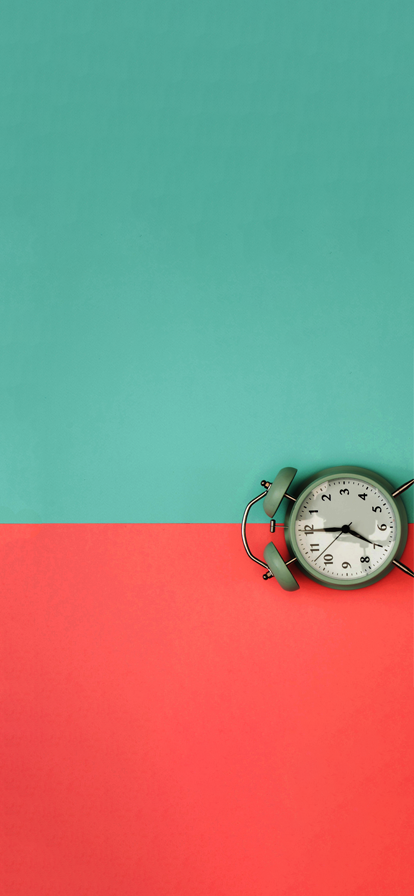
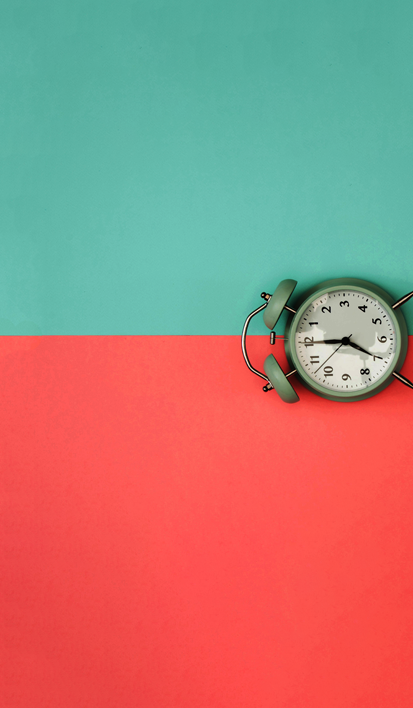
updated mobile

Changed region(s): [[0.0, 0.3729, 1.0, 0.6836]]

diff --git a/css/events.css b/css/events.css
@@ -459,7 +459,7 @@ i {
     position: absolute;
 }
   #homepage{
-    background-image: url("../img/Samgatha Mobile BG/Dance Mobile.png");
+    background-image: url("../img/Samgatha Mobile BG/Events Mobile.png");
     background-size: cover;
 }
 #photography{
@@ -491,7 +491,7 @@ i {
     background-size: cover;
 }
 #quiz{
-    background-image: url("../img/Samgatha Mobile BG/Dance Mobile.png");
+    background-image: url("../img/Samgatha Mobile BG/Quiz Phone1.png");
     background-size: cover;
 }
 #design{
@@ -564,26 +564,24 @@ i {
 
 .g1 img{
   position:absolute;
-  width:70%;
-  height:auto;
-  top:20%;
-  left:40%;
+  width:47%;
+  top:43vh;
+  left:30vh;
 }
 
 .g2 img{
   position:absolute;
-  width:70%;
+  width:47%;
   height:auto;
-  bottom:5%;
-  left:15%;
+  bottom:-13vh;
+  left:5vh;
 }
 
 .g3 img{
   position:absolute;
-  width:70%;
-  height:auto;
-  top:20%;
-  left:-10%;
+  width:47%;
+  top:16vh;
+  left:30vh;
 }
 .p1 img,.p2 img,.p3 img{
     position: absolute;
@@ -611,21 +609,21 @@ i {
         margin-left: -14rem;
 }
 .a1 img{
-    width: 55%;
+    width: 35%;
     height: auto;
-    margin-left:-1rem;
+    margin-left:-25vh;
     margin-top:-15rem;
 }
 .a2 img{
-    width: 55%;
+    width: 35%;
     height: auto;
-    margin-left: -7rem;
-    margin-top: -5rem;
+    margin-left: -12vh;
+    margin-top: 5vh;
 }
 .a3 img{
-    width: 55%;
+    width: 35%;
     height: auto;
-    margin-left:-12rem;
+    margin-left:1vh;
     margin-top:-15rem;
 }
 .m1 img{
@@ -642,27 +640,23 @@ i {
   height: 600px;
 }
 .q1 img{
-  width: 60%;
-  height: auto;
-  margin-top: 1rem;
+  width: 40%;
   position: absolute;
-  right: 5px;
-  top:20%;
-  
+  right: 5vh;
+  top:5vh;
 }
 .q2 img{
-  width: 60%;
+  width: 45%;
   position: absolute;
-  bottom: 4%;
-  left:5%;
+  bottom: 26vh;
+  left:5vh;
 
 }
 .q3 img{
-  width: 60%;
+  width: 40%;
   position: absolute;
-  right: 50%;
-  left: -30%;
-  top:20%;
+  left:33vh;
+  top: -30vh;
 }
 
 .li1 img{

diff --git a/events.html b/events.html
@@ -117,6 +117,9 @@
 
     <div id="onepage">
         <div id="homepage">
+        	<div class="heading">
+                <h2 class="font">EVENTS</h2>
+            </div>
             <div class="arrowdown" id="d1">
                 <a href="#">
                     <img src="img/DownArrow.png" />
